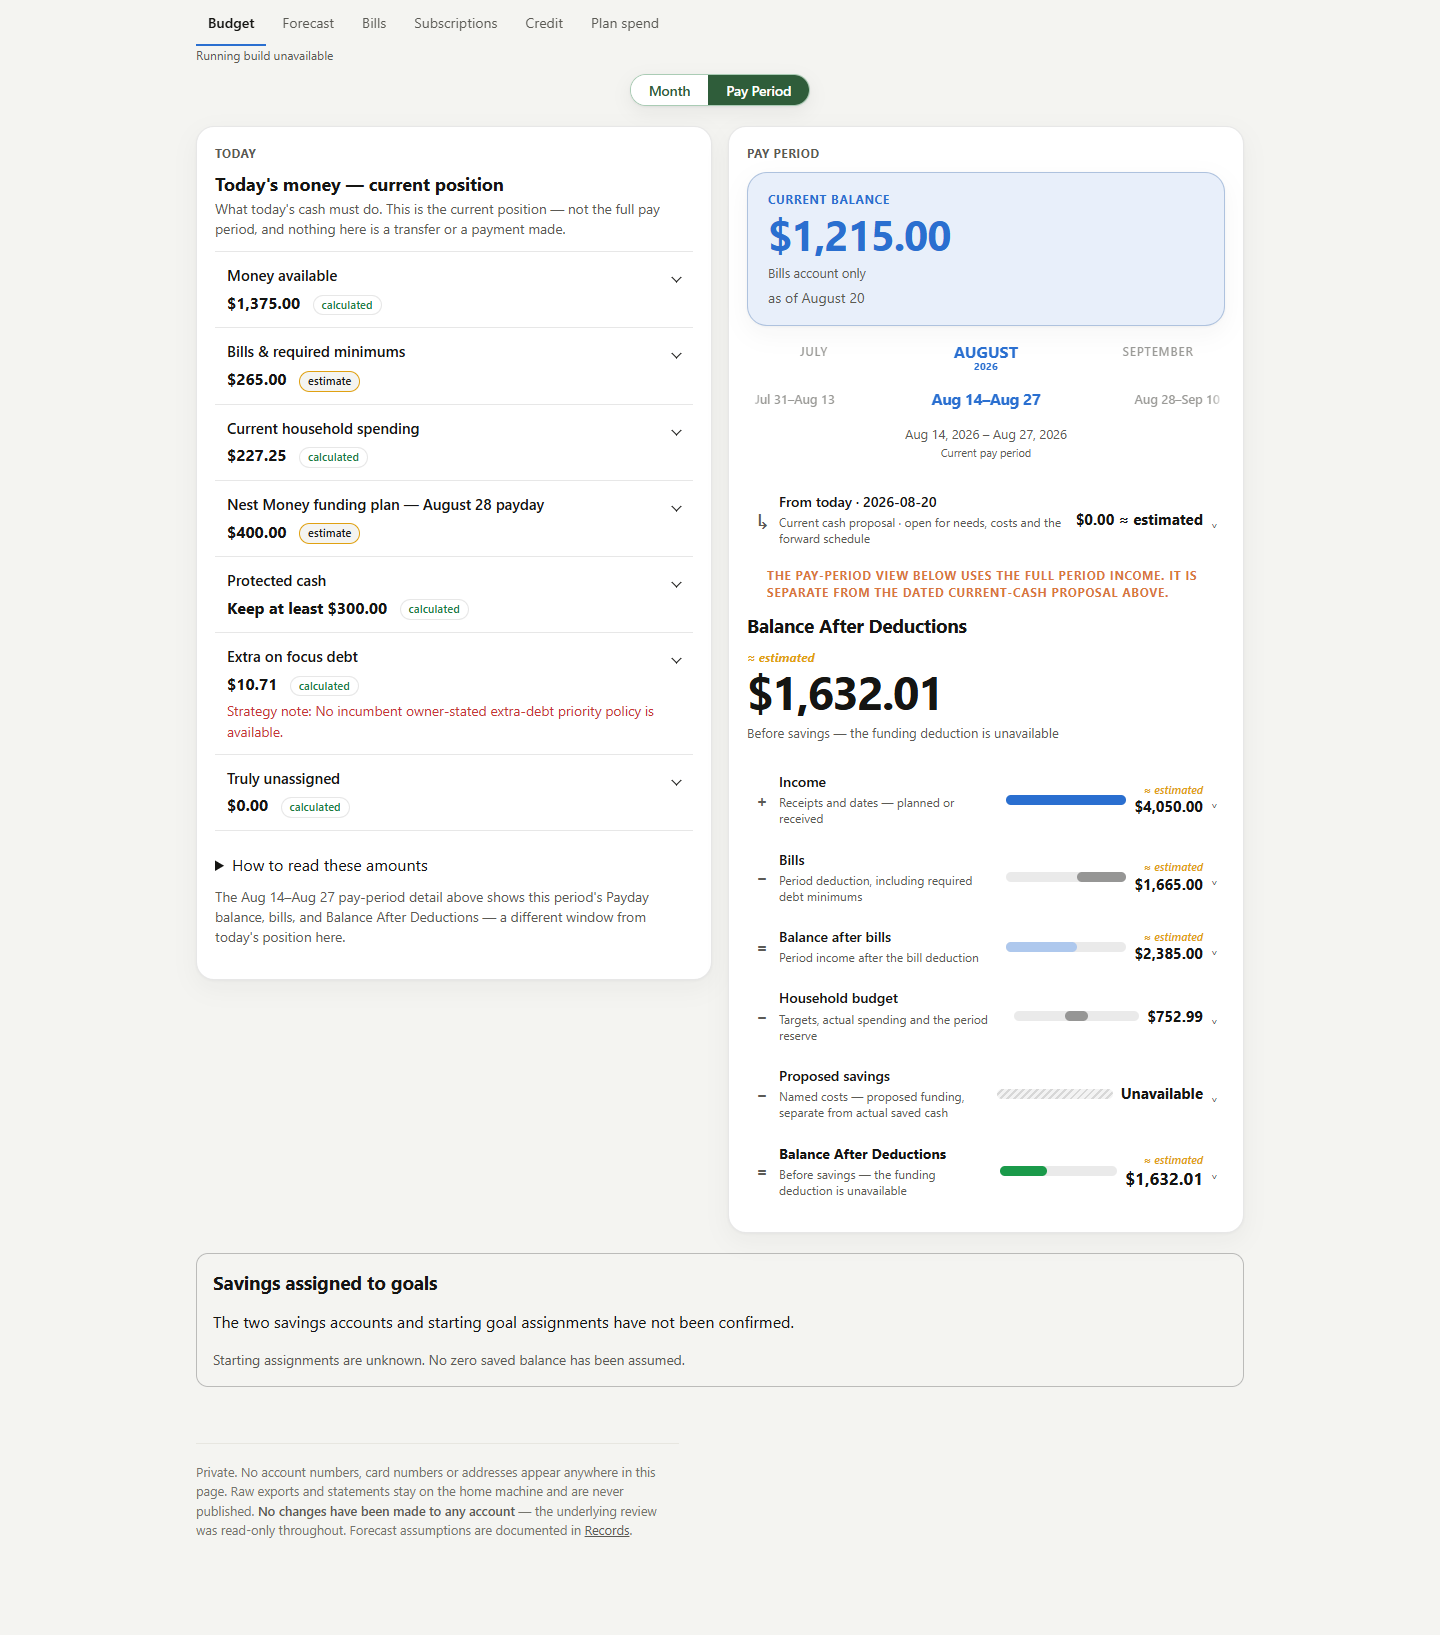
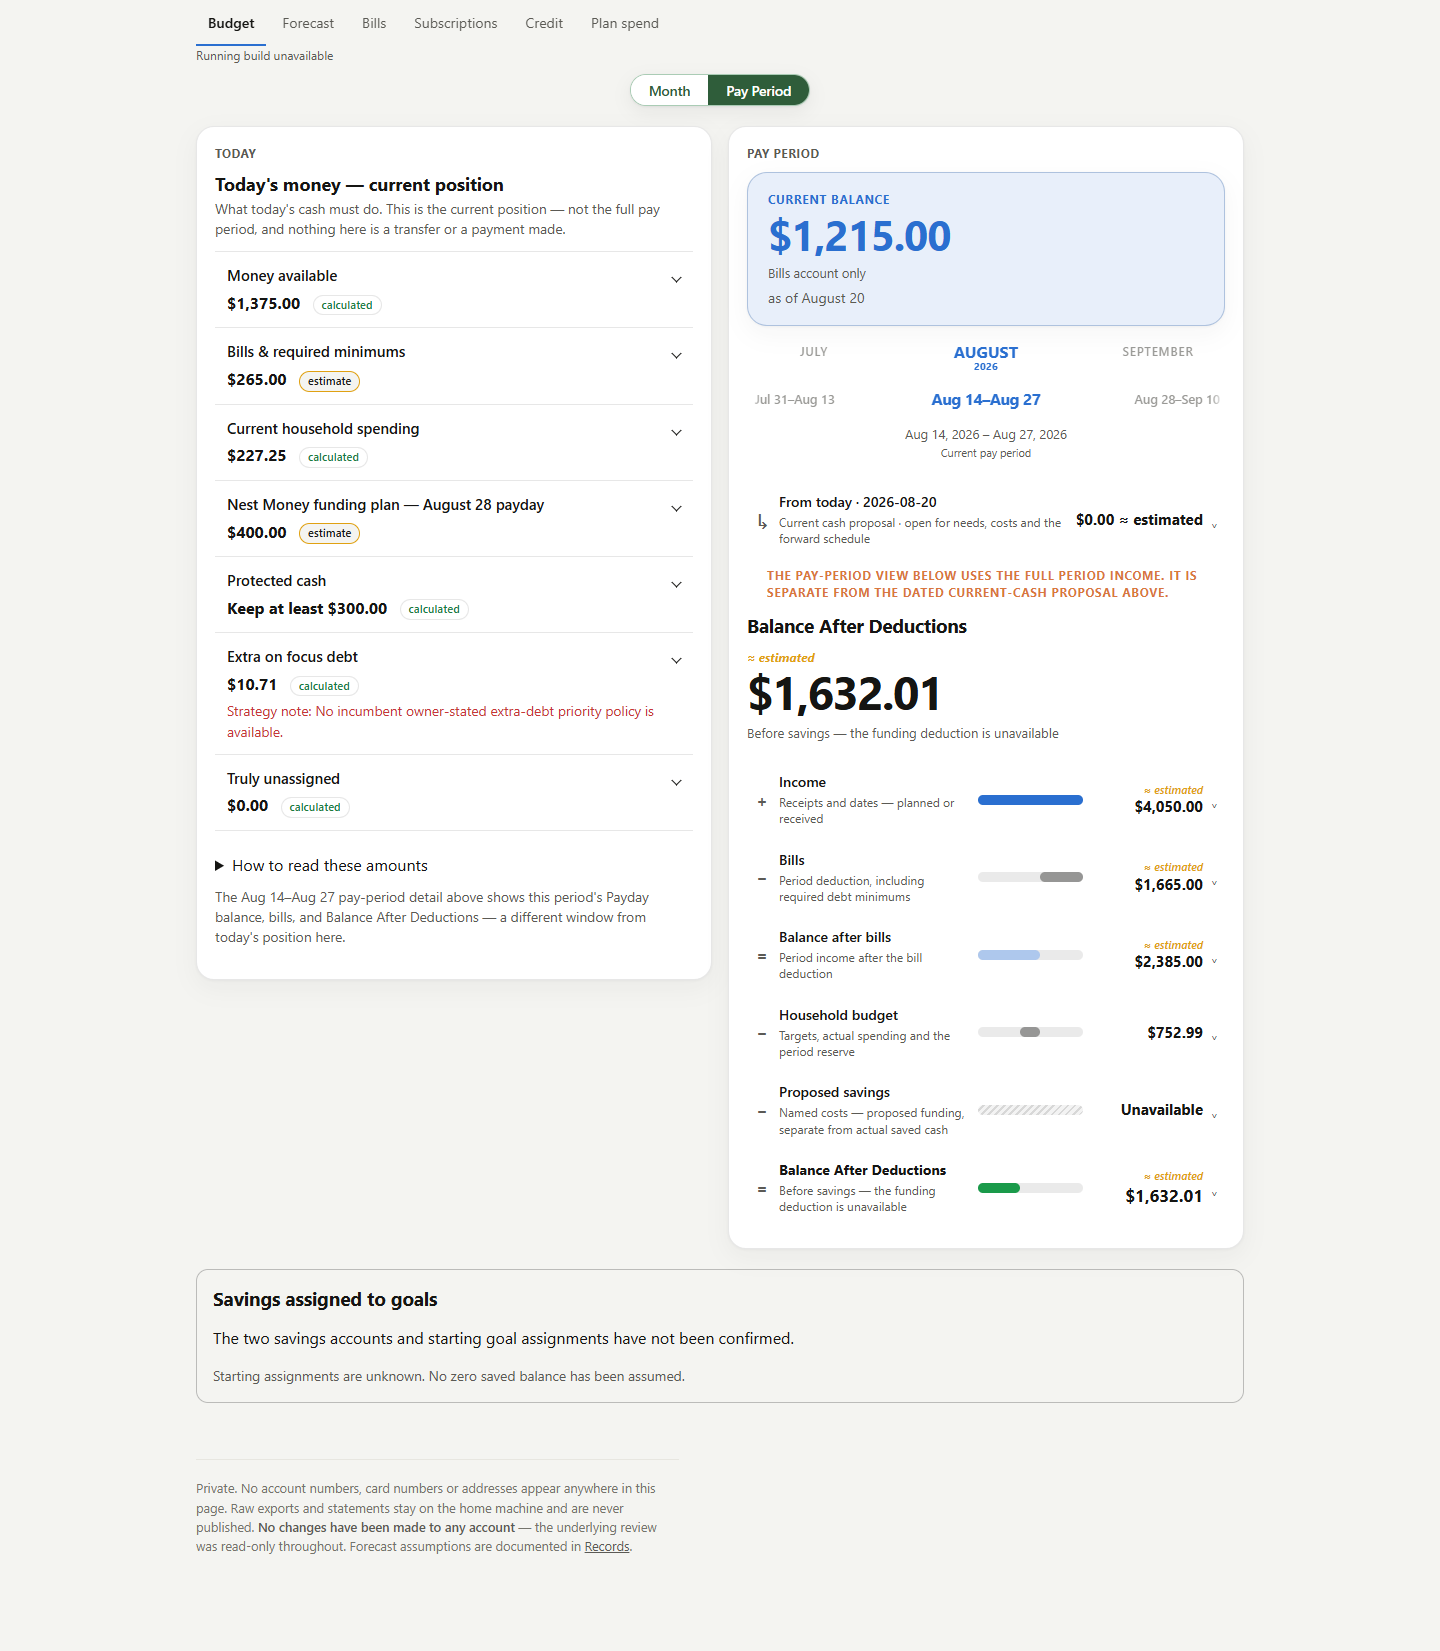
Preserve known signed Budget deficits and shared chart scale

diff --git a/public/plan.js b/public/plan.js
@@ -4042,14 +4042,40 @@ function calendarWaterfallHtml(period, liveOverlay, alloc, plan) {
       // Geometry only: size each already-published step against period income.
       // Never derive another financial total or read a formatted HTML value.
       const scaleKnown = typeof period.available === 'number' && Number.isFinite(period.available)
-        && period.available > 0 && ['calculated', 'estimated'].includes(period.incomeTrust);
-      const barKnown = known && scaleKnown && typeof summary.barStart === 'number'
-        && Number.isFinite(summary.barStart) && summary.barStart >= 0 && summary.amount >= 0;
-      const percent = value => Math.max(0, Math.min(100, value / period.available * 100));
-      const barStart = barKnown ? percent(summary.barStart) : 0;
-      const barWidth = barKnown ? Math.min(100 - barStart, percent(summary.amount)) : 0;
-      const graph = `<span class="budget-waterfall-track${barKnown ? '' : ' is-unknown'}" aria-hidden="true">${barKnown
-        ? `<span class="budget-waterfall-bar" style="left:${barStart}%;width:${barWidth}%"></span>` : ''}</span>`;
+        && period.available >= 0 && ['calculated', 'estimated'].includes(period.incomeTrust);
+      const positionKnown = typeof summary.barStart === 'number' && Number.isFinite(summary.barStart);
+      // Every row shares the same income units and zero. Deficit periods get
+      // an equal negative half; signed dollars remain published Forecast values.
+      const signedScale = scaleKnown && period.available > 0 && [
+        [period.afterBills, period.afterBillsTrust],
+        [period.afterHouseholdBudget, period.balanceAfterDeductionsTrust],
+        [finalAmount, finalTrust],
+      ].some(([value, trust]) => typeof value === 'number' && Number.isFinite(value)
+        && value < 0 && ['calculated', 'estimated'].includes(trust));
+      const barKnown = known && positionKnown && scaleKnown && period.available > 0;
+      const zero = signedScale ? 50 : 0;
+      const units = signedScale ? 50 : 100;
+      const start = barKnown ? zero + summary.barStart / period.available * units : zero;
+      const end = barKnown ? start + summary.amount / period.available * units : zero;
+      const low = Math.min(start, end), high = Math.max(start, end);
+      const deficit = known && positionKnown && (summary.barStart < 0
+        || (summary.amount < 0 && (kind === 'balance' || number === '02')));
+      const state = !known ? 'unknown' : scaleKnown && period.available === 0 ? 'zero-income'
+        : !barKnown ? 'unscaled' : deficit ? 'deficit' : 'known';
+      const segment = (left, right, negative) => right > left
+        ? `<span class="budget-waterfall-bar${negative ? ' is-negative' : ''}" style="left:${left}%;width:${right - left}%"></span>` : '';
+      const bars = barKnown
+        ? segment(Math.max(0, low), Math.min(zero, high), true)
+          + segment(Math.max(zero, low), Math.min(100, high), false) : '';
+      const overflowStart = barKnown && low < -1e-9, overflowEnd = barKnown && high > 100 + 1e-9;
+      const classes = `${state === 'unknown' ? ' is-unknown' : ''}${signedScale ? ' is-signed' : ''}${deficit ? ' is-deficit' : ''}`
+        + `${overflowStart ? ' is-overflow-start' : ''}${overflowEnd ? ' is-overflow-end' : ''}`;
+      const graph = `<span class="budget-waterfall-track${classes}" data-budget-bar-state="${state}" aria-hidden="true">
+        ${bars}${signedScale ? '<span class="budget-waterfall-zero">0</span>' : ''}${state === 'zero-income'
+          ? '<span class="budget-waterfall-scale-note">Zero income</span>' : state === 'unscaled'
+            ? '<span class="budget-waterfall-scale-note">Scale unavailable</span>' : ''}
+        ${overflowStart ? '<span class="budget-waterfall-overflow at-start">←</span>' : ''}${overflowEnd ? '<span class="budget-waterfall-overflow at-end">→</span>' : ''}
+      </span>`;
       return `<div class="operating-question budget-step${kind ? ` budget-step-${kind}` : ''}" data-operating-question="${number}" data-operating-prompt="${prompt}">
         <details class="budget-step-details">
           <summary class="budget-step-summary">

diff --git a/test/test-budget-surface.js b/test/test-budget-surface.js
@@ -139,6 +139,40 @@ ok(/data-budget-spent="groceries"[\s\S]*?Synthetic grocer[\s\S]*?212\.40[\s\S]*?
   'Groceries opens to its transactions');
 ok(/data-other-spending[\s\S]*?Synthetic general store/.test(html), 'unassigned spending keeps its transaction');
 
+console.log('\n=== signed deficits, overflow and known zero income on the financial path ===');
+const summaryHtml = (source, id) => source.split(`data-operating-question="${id}"`)[1]?.split('</summary>')[0] || '';
+const segments = source => [...source.matchAll(/class="budget-waterfall-bar([^\"]*)" style="left:([^%]+)%;width:([^%]+)%"/g)]
+  .map(match => ({ negative: match[1].includes('is-negative'), left: Number(match[2]), width: Number(match[3]) }));
+const deficitHtml = page().render(fx.served({ periodInternet: 1800 }));
+// 4,050 income - (1,400 + 120 + 60 + 1,800) bills = 670;
+// 670 - 752.99 household = -82.99. Shared axis is [-4,050, +4,050].
+ok(step(deficitHtml, '04').includes(money(3380)) && step(deficitHtml, '05').includes(money(670)),
+  'synthetic observations produce the independent 3,380 bill load and 670 after bills');
+ok(/data-sign="negative"/.test(summaryHtml(deficitHtml, '07')) && /82\.99/.test(step(deficitHtml, '07'))
+  && /estimated/.test(step(deficitHtml, '07')), 'the -82.99 final balance keeps its sign and Forecast estimate');
+for (const id of ['06', '07']) ok(/data-budget-bar-state="deficit"/.test(summaryHtml(deficitHtml, id))
+  && !/is-unknown/.test(summaryHtml(deficitHtml, id)), `${id}: a known negative start or amount is a deficit, never unknown`);
+const incomeSegments = segments(summaryHtml(deficitHtml, '02'));
+ok(incomeSegments.length === 1 && incomeSegments[0].left === 50 && incomeSegments[0].width === 50,
+  'every signed-period row uses zero at the shared midpoint and the same income units');
+const householdSegments = segments(summaryHtml(deficitHtml, '06'));
+ok(householdSegments.length === 2 && householdSegments[0].negative && !householdSegments[1].negative
+  && Math.abs(householdSegments[0].width - 82.99 / 4050 * 50) < 1e-9
+  && Math.abs(householdSegments[1].width - 670 / 4050 * 50) < 1e-9,
+  'the household deduction crosses zero: 82.99 below zero and 670 above, without losing either signed portion');
+const overflowHtml = page().render(fx.served({ periodInternet: 10000 }));
+ok(/is-overflow-start/.test(summaryHtml(overflowHtml, '07')) && /8,282\.99/.test(step(overflowHtml, '07'))
+  && !/is-unknown/.test(summaryHtml(overflowHtml, '07')),
+  'known -8,282.99 beyond the -4,050 axis gets signed overflow, not an unavailable hatch');
+const zeroIncomeHtml = page().render(fx.served({ zeroIncome: true }));
+ok(step(zeroIncomeHtml, '02').includes(money(0)) && !/Unavailable/.test(step(zeroIncomeHtml, '02')),
+  'no invented salary receipt: zero income remains a published known zero');
+for (const id of ['02', '04', '06', '07']) ok(/data-budget-bar-state="zero-income"/.test(summaryHtml(zeroIncomeHtml, id))
+  && !/is-unknown/.test(summaryHtml(zeroIncomeHtml, id)) && segments(summaryHtml(zeroIncomeHtml, id)).length === 0,
+  `${id}: zero income disables ratio geometry explicitly, without dividing by zero or changing trust`);
+ok(/data-sign="negative"/.test(summaryHtml(zeroIncomeHtml, '07')) && /2,417\.99/.test(step(zeroIncomeHtml, '07')),
+  'zero-income deficit independently reconciles 0 - 1,665 - 752.99 = -2,417.99');
+
 console.log("\n=== today's money and the next-payday plan ===");
 const today = text(section(html, 'today'));
 const period = text(section(html, 'period'));

diff --git a/test/browser-budget-v3-period.js b/test/browser-budget-v3-period.js
@@ -49,6 +49,11 @@ async function geometry(page) {
       };
       await boot();
       await geometry(page);
+      const trackBounds = await page.locator('.budget-waterfall-track').evaluateAll(rows => rows.map(row => {
+        const r = row.getBoundingClientRect(); return [r.left, r.width];
+      }));
+      assert.ok(trackBounds.every(([left, width]) => Math.abs(left - trackBounds[0][0]) < .01
+        && Math.abs(width - trackBounds[0][1]) < .01), 'all waterfall rows share the same rendered track origin and width');
       const hero = page.locator('[data-budget-period-result]');
       assert.match(await hero.innerText(), /1,632\.01/); // 4050 - 1665 - 752.99
       assert.match(await hero.innerText(), /estimated[\s\S]*Before savings/);
@@ -95,6 +100,33 @@ async function geometry(page) {
       }
       await page.locator('[data-budget-drilldown-exit]').click();
       assert.equal(await page.locator('[data-budget-granularity="pay-period"]').evaluate(el => el === document.activeElement), true);
+      // Signed Forecast results keep known trust. No-income geometry is an
+      // explicit unscaled known state; it must never become an unknown hatch.
+      for (const [name, options, expected] of [
+        ['deficit', { periodInternet: 1800 }, '82.99'],
+        ['overflow', { periodInternet: 10000 }, '8,282.99'],
+        ['zero-income', { zeroIncome: true }, '2,417.99'],
+      ]) {
+        data = fx.served(options); await boot(); await geometry(page);
+        const final = page.locator('[data-operating-question="07"] > details > summary');
+        assert.match(await final.innerText(), new RegExp(expected.replace('.', '\\.')));
+        assert.equal(await final.locator('[data-sign="negative"]').count(), 1);
+        assert.equal(await final.locator('.is-unknown').count(), 0);
+        assert.equal(await page.locator('[data-operating-question="06"] > details > summary .is-unknown').count(), 0);
+        if (name === 'deficit') {
+          assert.equal(await page.locator('[data-operating-question="06"] .budget-waterfall-bar').count(), 2);
+          assert.equal(await final.locator('.budget-waterfall-bar.is-negative').count(), 1);
+          assert.equal(await page.locator('.budget-waterfall-zero').count(), 6);
+        } else if (name === 'overflow') {
+          assert.equal(await final.locator('.is-overflow-start').count(), 1);
+        } else {
+          assert.match(await page.locator('[data-operating-question="02"] > details > summary').innerText(), /0\.00/);
+          assert.equal(await page.locator('[data-budget-bar-state="zero-income"]').count(), 5);
+          assert.equal(await page.locator('.budget-waterfall-bar').count(), 0);
+        }
+        await page.screenshot({ path: path.join(screenshots, `${name}-${width}.png`), fullPage: true });
+        await page.locator('[data-calendar-waterfall]').screenshot({ path: path.join(screenshots, `${name}-period-${width}.png`) });
+      }
       // Configured pools with unknown assignments must retain the withholding reason.
       data = fx.served({ withheldSavings: true }); await boot(); await geometry(page);
       assert.match(await page.locator('#savings-inventory').innerText(), /Assignments unknown/);

diff --git a/public/budget-surface.css b/public/budget-surface.css
@@ -89,7 +89,7 @@
 .budget-surface .budget-step[data-operating-question] { margin-inline-start:0; }
 .budget-surface .budget-step-details { border:0; border-radius:10px; background:none; }
 .budget-surface .budget-step .budget-step-summary {
-  display:grid; grid-template-columns:18px minmax(0,1fr) minmax(40px,.55fr) auto 8px;
+  display:grid; grid-template-columns:18px minmax(0,1fr) minmax(40px,.55fr) 112px 8px;
   gap:8px; align-items:center; padding:10px 6px; border:0; border-radius:10px;
   background:transparent; color:var(--text-primary); box-shadow:none; min-height:0;
 }
@@ -127,6 +127,14 @@
   background:color-mix(in srgb, var(--text-primary) 9%, var(--surface-1));
 }
 .budget-waterfall-bar { position:absolute; inset-block:0; border-radius:6px; background:var(--s1); }
+.budget-surface .budget-waterfall-bar.is-negative { background:var(--critical); }
+.budget-waterfall-track.is-deficit { background:color-mix(in srgb,var(--critical) 9%,var(--surface-1)); }
+.budget-waterfall-zero { position:absolute; left:50%; top:-13px; transform:translateX(-50%); color:var(--text-secondary); font-size:9px; line-height:1; }
+.budget-waterfall-track.is-signed::after { content:''; position:absolute; left:50%; top:-2px; bottom:-2px; width:1px; background:var(--text-secondary); }
+.budget-waterfall-scale-note { position:absolute; inset:0; font-size:9px; line-height:10px; text-align:center; color:var(--text-secondary); white-space:nowrap; }
+.budget-waterfall-overflow { position:absolute; top:-6px; color:var(--critical); font-size:16px; font-weight:700; line-height:20px; }
+.budget-waterfall-overflow.at-start { left:0; }
+.budget-waterfall-overflow.at-end { right:0; color:var(--s1); }
 [data-operating-question="04"] .budget-waterfall-bar,
 [data-operating-question="06"] .budget-waterfall-bar,
 [data-operating-question="savings"] .budget-waterfall-bar {
@@ -142,7 +150,7 @@
 .budget-surface [data-operating-question="07"] .operating-prompt { font-weight:700; }
 .budget-surface [data-operating-question="07"] .budget-step-value { font-size:17px; }
 @media (max-width: 1100px) {
-  .budget-surface .budget-step-summary { grid-template-columns:18px minmax(0,1fr) auto 8px; }
+  .budget-surface .budget-step .budget-step-summary { grid-template-columns:18px minmax(0,1fr) auto 8px; }
   .budget-surface-period .budget-waterfall-track { grid-column:2 / 4; grid-row:2; height:8px; }
   .budget-surface .budget-step-value { grid-column:3; grid-row:1; }
   .budget-surface .budget-step-chevron { grid-column:4; grid-row:1; }

diff --git a/test/fixtures/budget-surface-data.js b/test/fixtures/budget-surface-data.js
@@ -132,7 +132,17 @@ function withheldSavings(data) {
 function served(opts = {}) {
   const Live = require('../../scripts/live-plan');
   const data = opts.withheldSavings ? withheldSavings(canonical()) : canonical();
-  const overlay = Live.fromObservation({ data, payload: payload(), accountMap: map, identity });
+  const observed = payload();
+  if (typeof opts.periodInternet === 'number') {
+    data.plan.bills.find(row => row.id === 'internet').amount = opts.periodInternet;
+  }
+  if (opts.zeroIncome) {
+    data.plan.income.forEach(row => { row.amount = 0; });
+    observed.transactions = observed.transactions.filter(row => row.id !== 92001);
+    // No salary occurred: 1,215 closing + 1,400 paid mortgage = 2,615 opening.
+    data.plan.startingCash.breakdown.find(row => row.id === 'chequing-a').value = 2615;
+  }
+  const overlay = Live.fromObservation({ data, payload: observed, accountMap: map, identity });
   if (opts.unavailablePlan) {
     return Live.failedOverlay(canonical(), 'Synthetic refresh could not be trusted.', { report: overlay.report });
   }

diff --git a/docs/design/budget-v3-period-hierarchy/README.md b/docs/design/budget-v3-period-hierarchy/README.md
@@ -21,6 +21,15 @@ total. The existing period funding rules, including prior proposed funding
 used for bills, still determine the final balance. Unavailable values stay
 unavailable and use hatched tracks. No sample controls enter production.
 
+Known signed balances are distinct from missing values. Positive periods keep
+the approved zero-to-income scale. When Forecast publishes a deficit, every
+row shares an equal negative/positive income scale with a visible zero marker;
+the portion below zero is red. Values outside that scale get directional
+overflow arrows. A known zero-income period says `Zero income` and omits ratio
+geometry. Known values with unavailable chart geometry say `Scale unavailable`;
+only unavailable financial values use the unknown hatch. Desktop tracks share
+one origin and width regardless of the length of their money labels.
+
 ## Finite visual-difference checklist
 
 | Item | Status and closure |
@@ -63,6 +72,25 @@ the comparisons to make those differences reviewable.
 Missing-data captures: [unknown assignments and withheld proposal](withheld-390.png),
 [unavailable operating plan](unavailable-390.png). Period crops omit surrounding
 page sections; the full captures retain the actual navigation and layout.
+
+Signed financial-path regressions:
+
+| State | Desktop | Mobile | Narrow mobile |
+|---|---|---|---|
+| Known deficit | [1440px](deficit-1440.png) | [390px](deficit-390.png) | [320px](deficit-320.png) |
+| Known signed overflow | [1440px](overflow-1440.png) | [390px](overflow-390.png) | [320px](overflow-320.png) |
+| Known zero income | [1440px](zero-income-1440.png) | [390px](zero-income-390.png) | [320px](zero-income-320.png) |
+
+These independent invented observations reproduce the blocking
+[signed-bar finding](https://github.com/tc5v5s64ym-sketch/Atlas-Financial/pull/485#discussion_r4174982251)
+without reading or capturing the household's actual deficit periods. The
+deficit variant has 4,050 income, 3,380 bills and 752.99 household: final
+`-82.99`. The household bar crosses zero with 82.99 below and 670 above it.
+The overflow variant has 11,580 bills: final `-8,282.99`, outside the signed
+income scale. The zero-income variant removes the invented salary observation
+and both scheduled income amounts: final `0 - 1,665 - 752.99 = -2,417.99`.
+The active-path contract and actual browser proof check those figures, signs,
+trust, states, segment positions, bounded geometry and shared track dimensions.
 
 `node test/test-budget-surface.js` independently reconciles 2,600 + 1,450 =
 4,050 income; 1,400 + 120 + 60 + 85 = 1,665 bills; 450 + 160 + 120 + 22.99 =
